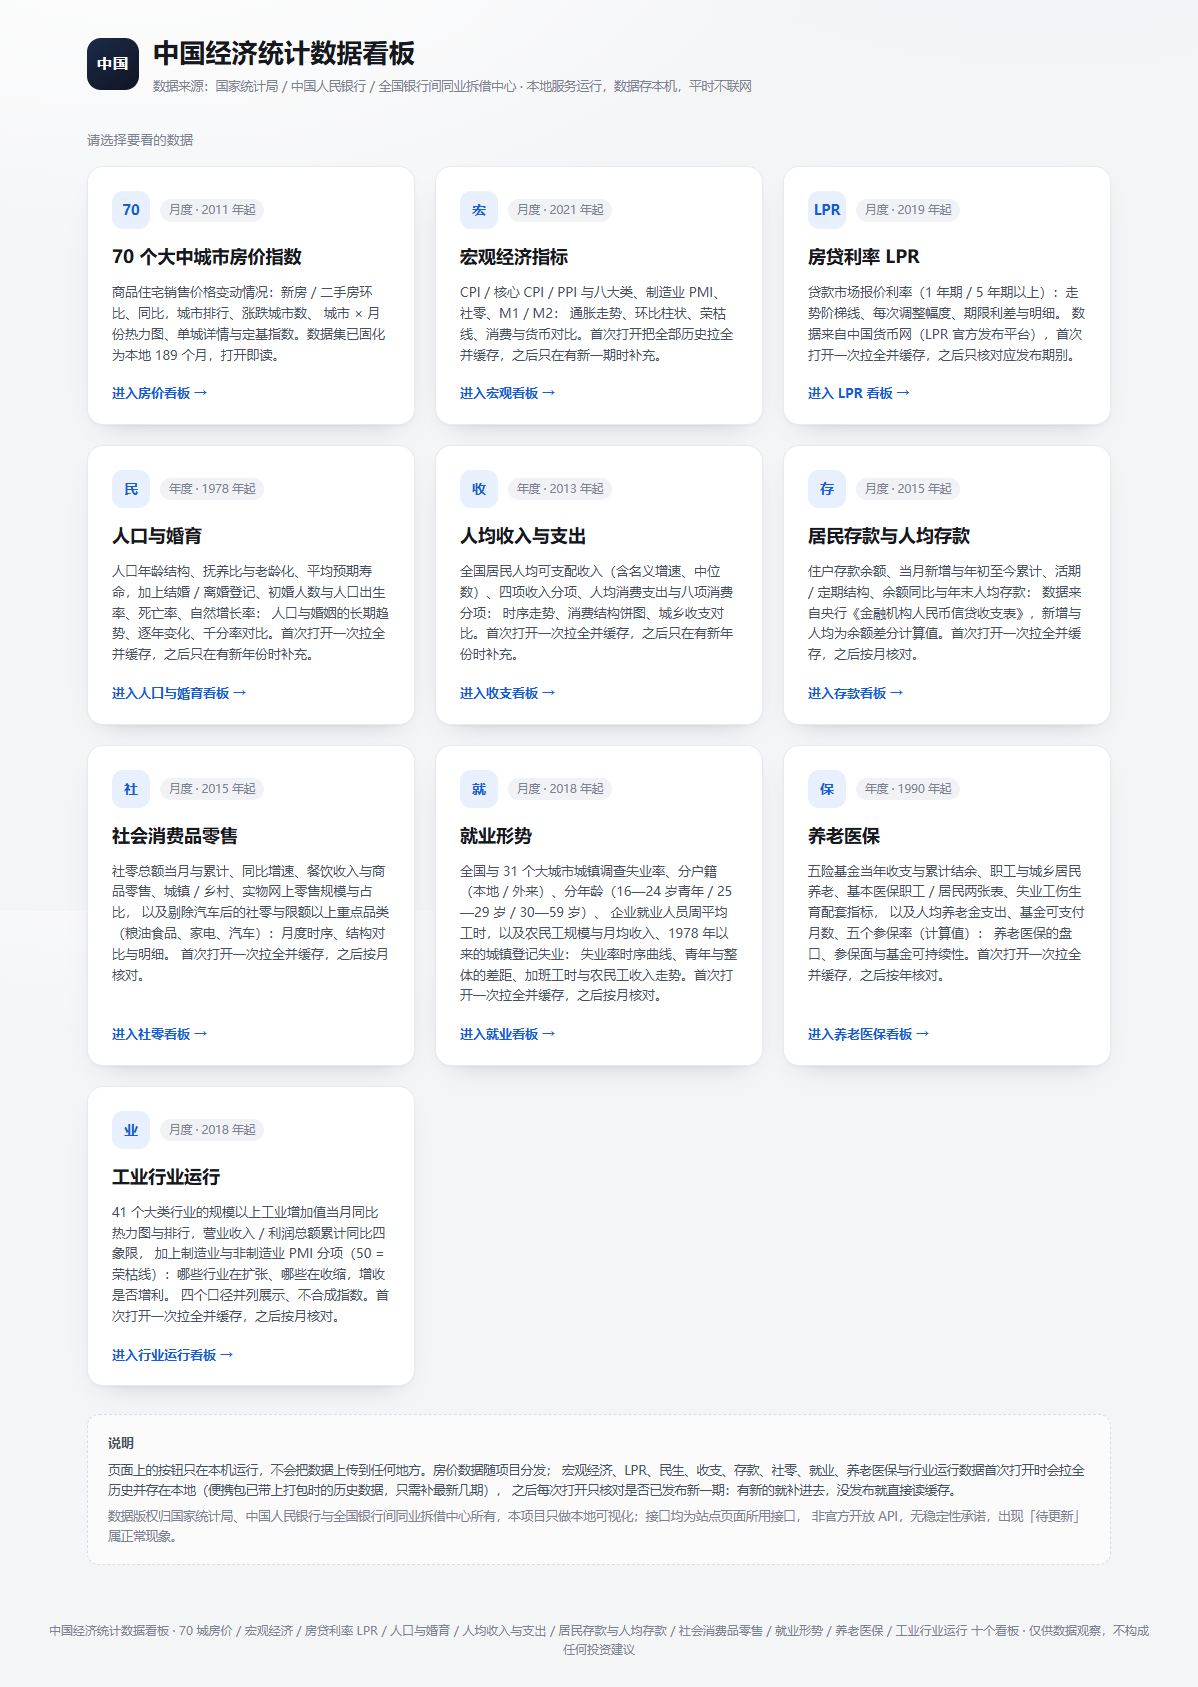
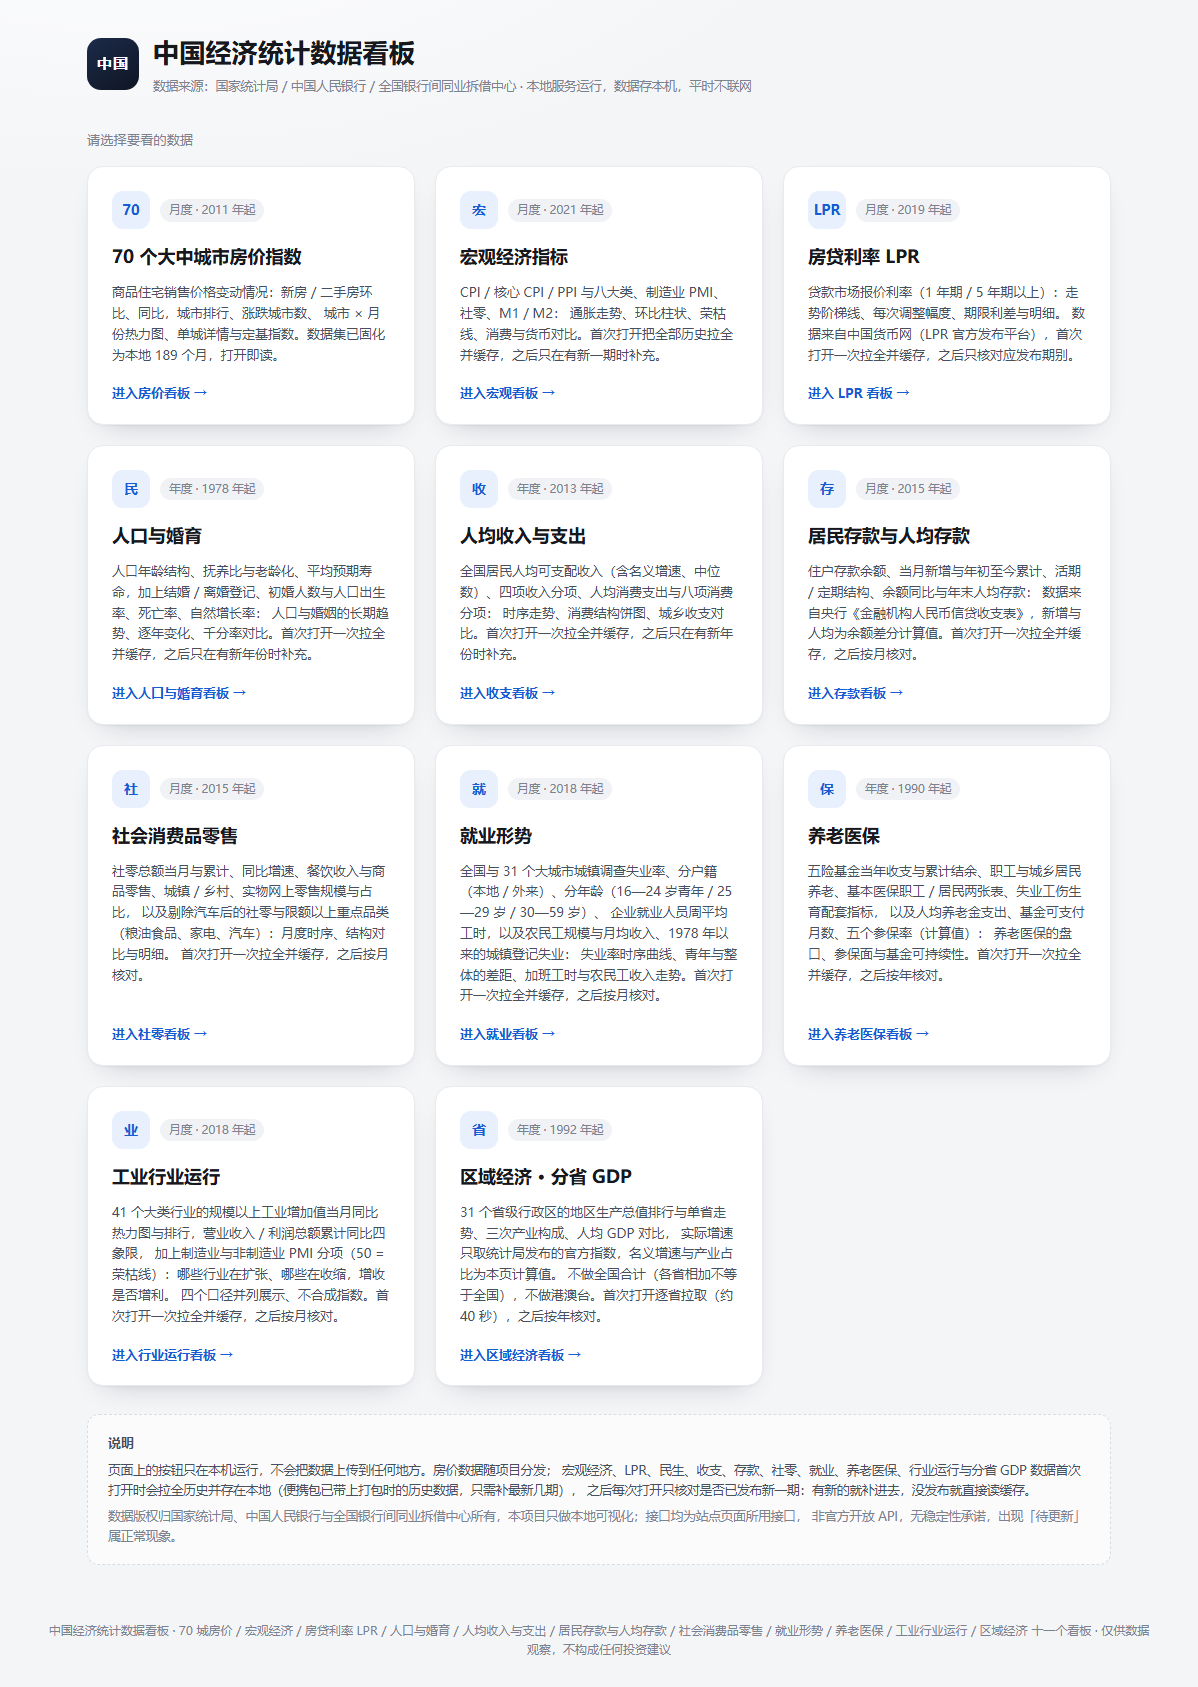
docs: 补齐区域经济看板截图并同步过时的模块说明
首页截图更新为十一卡片版，新增区域经济整页截图，README 模块十一补上引用并在概览表补出生 / 死亡人口与生死比。

启动横幅与 server 地址清单补区域经济，start.bat 由十个看板改为十一个；probe.js 头部补 industry.json 并说明分省年度库不在其命令内；使用说明与 region config 不再声称分省库由 probe 探测；industry config 引用的 README 章节名对齐为「模块十：工业行业运行」。

diff --git a/probe.js b/probe.js
@@ -5,11 +5,11 @@
  *
  * 国家统计局的指标编码绝对不能靠猜。任何要写进 config/ 下指标配置
  * （indicators.json 宏观、livelihood.json 民生、income.json 收支、deposit.json 存款、retail.json 社零、
- * employment.json 就业、security.json 养老医保）
+ * employment.json 就业、security.json 养老医保、industry.json 行业运行）
  * 的栏目 id / 指标 id，都必须先用这个工具打印出来看一眼；宏观指标还要再用
  * DBnomics 同期刊交叉校验一次。
  *
- * 月度库（宏观 / 社零 / 就业的调查失业率用，期别如 2026-09）：
+ * 月度库（宏观 / 社零 / 就业的调查失业率 / 行业运行的工业与 PMI 用，期别如 2026-09）：
  *   node probe.js tree                     列出「月度数据」下的栏目树（一层）
  *   node probe.js tree <pid>               展开某个栏目
  *   node probe.js indicators <catalogId>   列出栏目下的指标（含 id / 名称 / 起止）
@@ -21,6 +21,9 @@
  *   node probe.js annual-tree [pid]        列出「年度数据」下的栏目树
  *   node probe.js annual-indicators <catalogId>
  *   node probe.js annual-data <catalogId> <indicatorId...> [fromYear] [toYear]
+ *
+ * 分省年度库（region.json 区域经济用）不在上面两组命令里：它是 code=6，且 das 必须指定
+ * 单个省（12 位行政区划码），直接用 lib/region/source.js 的 tree / indicatorsOf / fetchRange 探测。
  *
  * 所有请求都走 sources/nbs.js 与 livelihood/source.js，内部串行 + 1.2 秒间隔，不会打爆站点。
  */

diff --git a/server.js b/server.js
@@ -547,7 +547,8 @@ server.listen(PORT, HOST, () => {
   console.log('    ├─ 民生 · 社零       http://' + HOST + ':' + PORT + '/livelihood/retail/');
   console.log('    ├─ 民生 · 就业       http://' + HOST + ':' + PORT + '/livelihood/employment/');
   console.log('    ├─ 民生 · 养老医保   http://' + HOST + ':' + PORT + '/livelihood/security/');
-  console.log('    └─ 行业运行          http://' + HOST + ':' + PORT + '/industry/');
+  console.log('    ├─ 行业运行          http://' + HOST + ':' + PORT + '/industry/');
+  console.log('    └─ 区域经济          http://' + HOST + ':' + PORT + '/region/');
   const macroSet = macroSeries.datasetStatus();
   console.log('  [宏观] 缓存目录：' + macroSet.dir);
   if (!macroSet.files) {

diff --git a/lib/region/config.js b/lib/region/config.js
@@ -7,7 +7,8 @@
  *   site       —— 国家数据「分省年度数据」的站点参数（rootId 必须是分省年度库，不是全国年度库）
  *   history    —— 历史起点（年度，'YYYY'）
  *   provinces  —— 31 个省级行政区与 12 位行政区划代码（das 参数用）
- *   catalogs   —— 分省年度库栏目 id（由 probe.js 探测确认，禁止手填猜测值）
+ *   catalogs   —— 分省年度库栏目 id（用本目录 source.js 的 tree / indicatorsOf 探测确认，
+ *                  code=6 分省库不在 probe.js 的命令里；禁止手填猜测值）
  *   indicators —— 看板展示的指标：原值写 catalog + indicatorId；
  *                 本页计算量写 derive + inputs（不落盘、不回源）
  *

diff --git a/lib/industry/config.js b/lib/industry/config.js
@@ -17,7 +17,7 @@
  * （id = 行业 key + '.' + 口径 key，如 coal.profit），
  * 服务层的 describe / series / 单序列接口都基于这份展开结果，不再区分行业与 PMI。
  *
- * 指标编码全部由 probe 脚本实测得出（见 README「模块十：行业运行」），
+ * 指标编码全部由 probe 脚本实测得出（见 README「模块十：工业行业运行」），
  * 改版面只动 JSON；取数走本目录 source.js，限流在本目录内（不跨模块 require）。
  */
 

diff --git a/README.md b/README.md
@@ -7,7 +7,7 @@
 | **70 个大中城市房价指数** | `/housing/` | 新房 / 二手住宅环比、同比，城市排行、涨跌城市数、热力图、定基指数 | 月度 · 2011-01 |
 | **宏观经济指标** | `/macro/` | CPI / 核心 CPI / PPI / 八大类 / PMI / 社零 / M1·M2，共 20 个指标 | 月度 · 2021-01 |
 | **房贷利率 LPR** | `/lpr/` | 1 年期 / 5 年期以上报价、每次调整幅度、期限利差、明细 | 月度 · 2019-08 |
-| **人口与婚育** | `/livelihood/` | 年龄结构与抚养比、老龄化、平均预期寿命，结婚 / 离婚 / 初婚，出生率 / 死亡率 / 自然增长率（人口分段 1982 起、预期寿命止 2020） | 年度 · 1978 |
+| **人口与婚育** | `/livelihood/` | 年龄结构与抚养比、老龄化、平均预期寿命，结婚 / 离婚 / 初婚，出生率 / 死亡率 / 自然增长率，以及由千分率还原的出生 / 死亡人口、自然增长量与生死比（人口分段 1982 起、预期寿命止 2020） | 年度 · 1978 |
 | **人均收入与支出** | `/livelihood/income/` | 可支配收入（名义增速、中位数）、四项收入、消费支出、八项消费、城乡对比 | 年度 · 2013 |
 | **居民存款与人均存款** | `/livelihood/deposit/` | 住户存款余额、当月新增、年初至今累计、活期 / 定期结构、余额同比、年末人均存款 | 月度 · 2015 |
 | **社会消费品零售** | `/livelihood/retail/` | 社零当月 / 累计 / 同比、餐饮 / 商品、城镇 / 乡村、网上零售、剔除汽车、限额以上品类 | 月度 · 2015-02 |
@@ -300,6 +300,8 @@ POST https://www.chinamoney.com.cn/ags/ms/cm-u-bk-currency/LprHis?lang=CN&strSta
 - **缓存**：`.cache/region/<12 位省码>.json`（每省一个文件，31 个）+ `_meta.json`；冷却按「省 + 栏目」记录，首轮拉 GDP 不会把紧接着的指数回源一起拦掉；目录可用 `REGION_DATA_DIR` 覆盖。全量约 1.4 万个数据点。
 - **计算值不落盘**：三次产业占比（产业增加值 ÷ GDP）、名义增速（(今年 − 去年) ÷ 去年）在 `service.js` 的 `valueAt()` 现算，缺任一项输入即 `null`，不补 0；`config.js` 会拦住计算量自带 `catalog` / `indicatorId` 的写法。
 - **页面**：省份排行条形图（可切 GDP 总量 / 名义增速 / 实际增速 / 三产占比）、单省走势（GDP 柱 + 实际增速线，双轴）、三次产业百分比堆叠构成、人均 GDP 对比，共用年份与省份选择。
+
+![区域经济看板](docs/screenshot-region.png)
 
 ---
 
